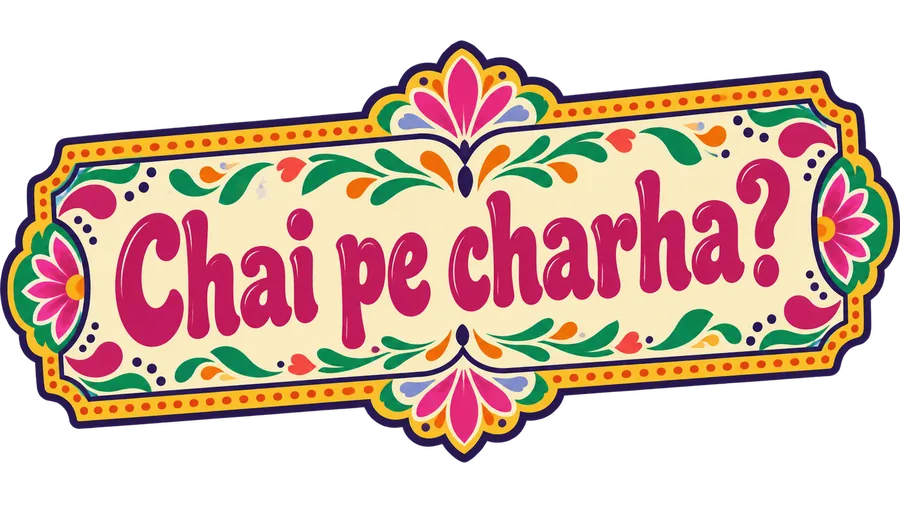
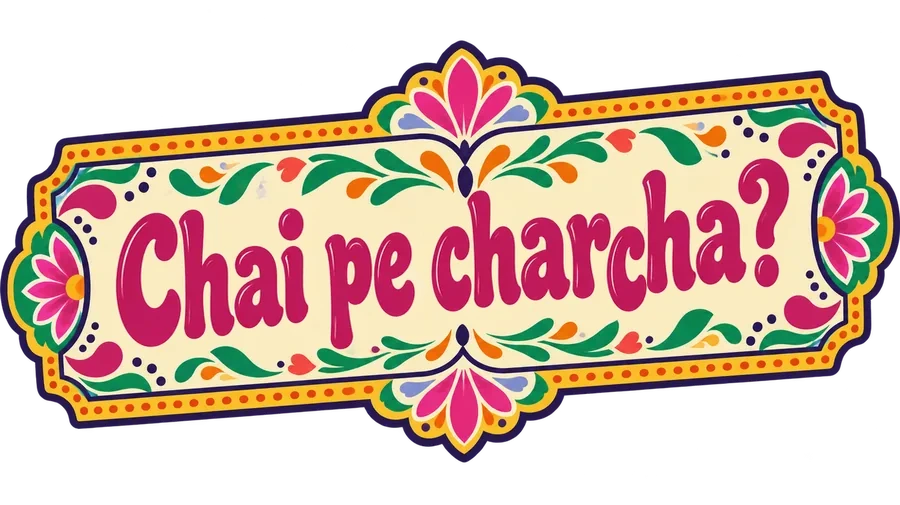
[HF-HOME-POLISH-2] Six-link footer columns, highlight no longer covers the line above, bigger Ek call sticker, Chai pe charcha spelling
Claude-Session: https://claude.ai/code/session_011uMp5KAU4zVM5F72F52mpF

Changed region(s): [[0.1244, 0.3267, 0.8711, 0.7129]]

diff --git a/web/design/desi-home.source.html b/web/design/desi-home.source.html
@@ -70,6 +70,12 @@ a{color:#30245f}a:hover{color:#be246e}
  .foot{gap:22px 16px !important}
 }
 
+/* [HF-HOME-POLISH-2] the yellow highlight is its own box under the line above, so it never covers that line */
+.hl{display:inline-block;line-height:1.06;margin-top:.12em;padding-bottom:.02em}
+@media (min-width:901px){
+ .cta-row{justify-content:space-between;flex-wrap:nowrap !important}
+ .cta-row .sticker-big{width:clamp(300px,24vw,470px) !important;margin-right:2%}
+}
 /* [HF-DESI-HOME-MOBILE-1] owner fixes 2026-10-17 */
 .toran{background-size:auto 120.2%;background-position:center bottom}
 .dhol{transform:scaleX(-1)}
@@ -215,7 +221,7 @@ a{color:#30245f}a:hover{color:#be246e}
   <div class="reasons-head" style="display: flex; flex-wrap: wrap; align-items: end; justify-content: space-between; gap: 24px">
     <div class="center-m">
       <div class="eyebrow" style="color: #be246e">Ek call, kai wajah</div>
-      <h2 class="disp reasons-title" style="margin: 14px 0 0; font-size: clamp(40px, 5.6vw, 84px)">One call.<br><span class="nowrap-hl" style="background: #fbd447; padding: 0 10px; border-radius: 10px">So many reasons.</span></h2>
+      <h2 class="disp reasons-title" style="margin: 14px 0 0; font-size: clamp(40px, 5.6vw, 84px)">One call.<br><span class="nowrap-hl hl" style="background: #fbd447; padding: 0 10px; border-radius: 10px">So many reasons.</span></h2>
     </div>
     <img class="img-slot dhol" src="/img/dhol-wala.webp" alt="Dhol player jumping" style="width: clamp(200px, 17vw, 320px); aspect-ratio: 1/1; display: block; height: auto">
   </div>
@@ -326,7 +332,7 @@ a{color:#30245f}a:hover{color:#be246e}
   <div class="creators-head" style="display: flex; flex-wrap: wrap; align-items: end; justify-content: space-between; gap: 20px">
     <div class="center-m">
       <div class="eyebrow">No one does you like you</div>
-      <h2 class="disp" style="margin: 14px 0 0; font-size: clamp(44px, 6.4vw, 96px)">Pick your<br><span style="background: #fbd447; padding: 0 12px; border-radius: 12px">kind of chaos.</span></h2>
+      <h2 class="disp" style="margin: 14px 0 0; font-size: clamp(44px, 6.4vw, 96px)">Pick your<br><span class="hl" style="background: #fbd447; padding: 0 12px; border-radius: 12px">kind of chaos.</span></h2>
     </div>
     <img class="img-slot sticker sticker-big" src="/img/sticker-reels-se-real.webp" role="img" aria-label="Reels se real tak" style="width: clamp(260px, 22vw, 400px); transform: rotate(-5deg); display: block; height: auto">
     <a href="#explore" style="font-weight: 800; display: inline-flex; align-items: center; gap: 8px; min-height: 44px">Explore everyone

diff --git a/web/src/components/home/desi-home-body.html b/web/src/components/home/desi-home-body.html
@@ -95,7 +95,7 @@
   <div class="reasons-head" style="display: flex; flex-wrap: wrap; align-items: end; justify-content: space-between; gap: 24px">
     <div class="center-m">
       <div class="eyebrow" style="color: #be246e">Ek call, kai wajah</div>
-      <h2 class="disp reasons-title" style="margin: 14px 0 0; font-size: clamp(40px, 5.6vw, 84px)">One call.<br><span class="nowrap-hl" style="background: #fbd447; padding: 0 10px; border-radius: 10px">So many reasons.</span></h2>
+      <h2 class="disp reasons-title" style="margin: 14px 0 0; font-size: clamp(40px, 5.6vw, 84px)">One call.<br><span class="nowrap-hl hl" style="background: #fbd447; padding: 0 10px; border-radius: 10px">So many reasons.</span></h2>
     </div>
     <img class="img-slot dhol" src="/assets/hf-desi/dhol-wala.webp" alt="Dhol player jumping" style="width: clamp(200px, 17vw, 320px); aspect-ratio: 1/1; display: block; height: auto">
   </div>
@@ -206,7 +206,7 @@
   <div class="creators-head" style="display: flex; flex-wrap: wrap; align-items: end; justify-content: space-between; gap: 20px">
     <div class="center-m">
       <div class="eyebrow">No one does you like you</div>
-      <h2 class="disp" style="margin: 14px 0 0; font-size: clamp(44px, 6.4vw, 96px)">Pick your<br><span style="background: #fbd447; padding: 0 12px; border-radius: 12px">kind of chaos.</span></h2>
+      <h2 class="disp" style="margin: 14px 0 0; font-size: clamp(44px, 6.4vw, 96px)">Pick your<br><span class="hl" style="background: #fbd447; padding: 0 12px; border-radius: 12px">kind of chaos.</span></h2>
     </div>
     <img class="img-slot sticker sticker-big" src="/assets/hf-desi/sticker-reels-se-real.webp" role="img" aria-label="Reels se real tak" style="width: clamp(260px, 22vw, 400px); transform: rotate(-5deg); display: block; height: auto">
     <a href="/marketplace" data-home-cta="explore" style="font-weight: 800; display: inline-flex; align-items: center; gap: 8px; min-height: 44px">Explore everyone

diff --git a/web/src/styles/desi-home.css b/web/src/styles/desi-home.css
@@ -58,6 +58,12 @@ a{color:#30245f}a:hover{color:#be246e}
  .foot{gap:22px 16px !important}
 }
 
+/* [HF-HOME-POLISH-2] the yellow highlight is its own box under the line above, so it never covers that line */
+.hl{display:inline-block;line-height:1.06;margin-top:.12em;padding-bottom:.02em}
+@media (min-width:901px){
+ .cta-row{justify-content:space-between;flex-wrap:nowrap !important}
+ .cta-row .sticker-big{width:clamp(300px,24vw,470px) !important;margin-right:2%}
+}
 /* [HF-DESI-HOME-MOBILE-1] owner fixes 2026-10-17 */
 .toran{background-size:auto 120.2%;background-position:center bottom}
 .dhol{transform:scaleX(-1)}

diff --git a/Specs/RULEBOOK-HELLO-FRAANDS.md b/Specs/RULEBOOK-HELLO-FRAANDS.md
@@ -182,6 +182,7 @@ took reasonable care, every time, with records. A disclaimer alone is not enough
 | HF-SITE-19 | **Completely new native Indian maximalist landing** (2026-10-16, HF-HOME-NATIVE-3): owner rejected the image-inspired scrapbook layout and explicitly requested a new design and live publication. Build real HTML/CSS components with oversized Indian vector artwork, torn individual creator images, large meme stickers and bold solid colour. Indian artwork must be a major part of the composition, not tiny accents. No full-page image, scaled poster or gradient. Retain the supplied brand, shared default Explore menu/footer, readable local fonts, responsive phone-to-ultrawide flow, private-number explanation and platform-merged calls. Google Play uses the canonical HF package; owner explicitly chose iPhone Coming soon. Sample actions remain truthful on activation, with keyboard accessibility. No Design concept label or standalone Design preview paragraph. This is a landing release, not a new video backend. | SUPERSEDED by HF-SITE-20 (2026-10-17, owner chose the desi design) | Historical release | N/A |
 | HF-SITE-20 | **Desi homepage** (owner 2026-10-17, HF-DESI-HOME-1): the homepage is the desi design first published on the test site hellofraands-desi.pages.dev (truck-art rickshaw hero, marigold toran, Warli, block print, Bollywood poster, chai tapri). Source is `web/design/desi-home.source.html`; `web/scripts/build-desi-home.py` turns it into the page. It wears the shared site header and footer, so every menu link is the real one. hellofraands.com must always point at the full site (Pages project avatok-app), never at a one-page test project: sign-in, wallet, payments and every other page live there. | ADOPTED | DONE | N/A |
 | HF-SITE-21 | **Homepage on phones and tablets** (owner 2026-10-17, HF-DESI-HOME-MOBILE-1). Up to 900px wide: every section's eyebrow, title, text, stickers and buttons are centred; the "Arre waah" sticker and the dhol player are hidden; "You see them on reels. / Now talk for real." is exactly two lines; "So many reasons." never breaks; the mandala, fish and the "Ek call" / "Reels se real tak" stickers are bigger. On every screen: the marigold torans touch the edge above them (header bottom, app section bottom); the magenta band's sticker reads **"Kya scene hai"** (was "Scene on hai"); the dhol player faces the other way on desktop; the app section uses the same Google Play / App Store artwork as the download section. The site footer disclaimer is the owner's own wording from the desi design ("Our platform is not for consultations with doctors… We are not responsible for the relationship or rapport…"), replacing the "It is a preview" text. | ADOPTED | DONE | N/A |
+| HF-SITE-22 | **Footer: six links per column** (owner 2026-10-17, HF-HOME-POLISH-2) so the desktop rows line up. Company, Influencers, Trust & Safety, Legal & Payments and Explore each show six links. Moved out of the footer and linked from their related pages instead: KYC guide (from Influencer requirements), Talk safely, LGBTQ+ space and Age policy (from the Safety centre cards), Cookies and Intermediary policy (from Privacy policy). Homepage: the yellow highlight on a heading ("So many reasons.", "kind of chaos.") never covers the line above it; on desktop the "Ek call toh banta hai" sticker is bigger and sits between the Book a call button and the poster art. The "Chai pe charcha?" sticker spelling is fixed (was "charha"). | ADOPTED | DONE | N/A |
 | HF-NAV-1 | **Header must have "Explore" → /marketplace** (first item). | ADOPTED | DONE | N/A |
 | HF-NAV-2 | **Every new public page gets a relevant link in the header or footer** in the same change (and the footer link-count checks in web/scripts are updated with it). Footer columns: Company · Hosts · Trust & Safety · Legal & Payments · Explore. | ADOPTED | DONE (so far) | N/A |
 
@@ -384,3 +385,4 @@ else, or come back later."
 | 2026-10-15 | HF-CASHFREE-TOPUP-1: owner decision — Cashfree is the India payment gateway (approved). Website top-ups of any whole amount go into the rupee wallet with 18% GST taken out (paid ÷ 1.18), same receipt + WhatsApp/email as Play (HF-PAY-1, HF-PAY-9, HF-PAY-11, HF-PAY-20). |
 | 2026-10-15 | HF-CASHFREE-CHECKOUT-HOST-1: Cashfree only approves avatok.ai, so the Add money button opens the payment on avatok.ai/pay/cashfree and Cashfree returns the buyer to the Hello Fraands wallet. No rule change; the wallet and GST rules (HF-PAY-1) are the same. |
 | 2026-10-17 | HF-DESI-HOME-MOBILE-1 (owner): homepage phone/tablet fixes and footer disclaimer wording — new rule HF-SITE-21. |
+| 2026-10-17 | HF-HOME-POLISH-2 (owner): footer trimmed to six links per column (HF-SITE-22; supersedes the longer footer columns in HF-NAV-2), homepage highlight/sticker fixes, "Chai pe charcha?" sticker spelling. |
